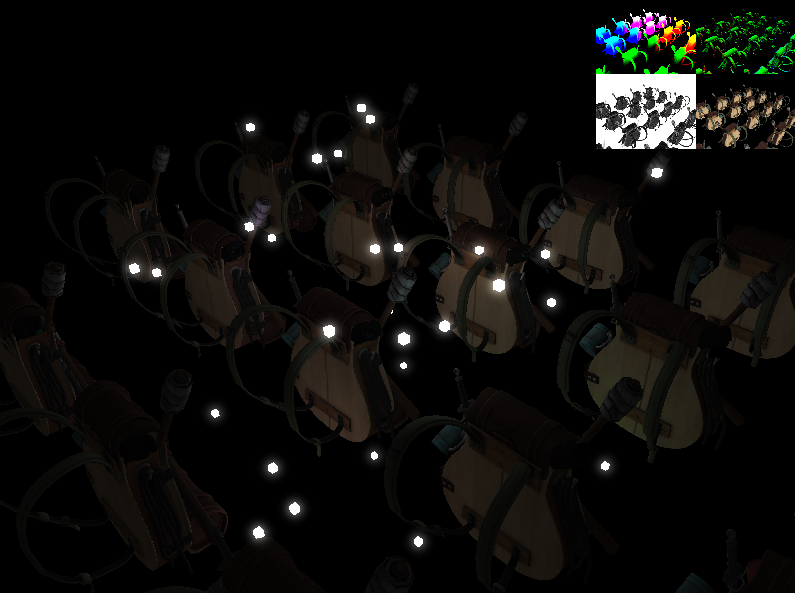
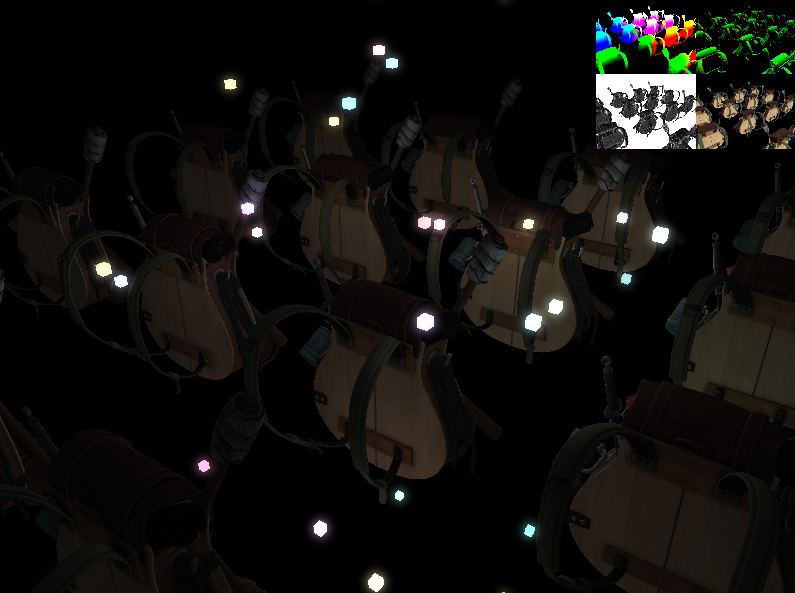
- correção light do exemplo 45

diff --git a/project/include/tests.hpp b/project/include/tests.hpp
@@ -60,5 +60,6 @@ int run_042(const int, const int);
 int run_043(const int, const int);
 int run_044(const int, const int);
 int run_045(const int, const int);
+int run_046(const int, const int);
 
 #endif // INIT_HPP
